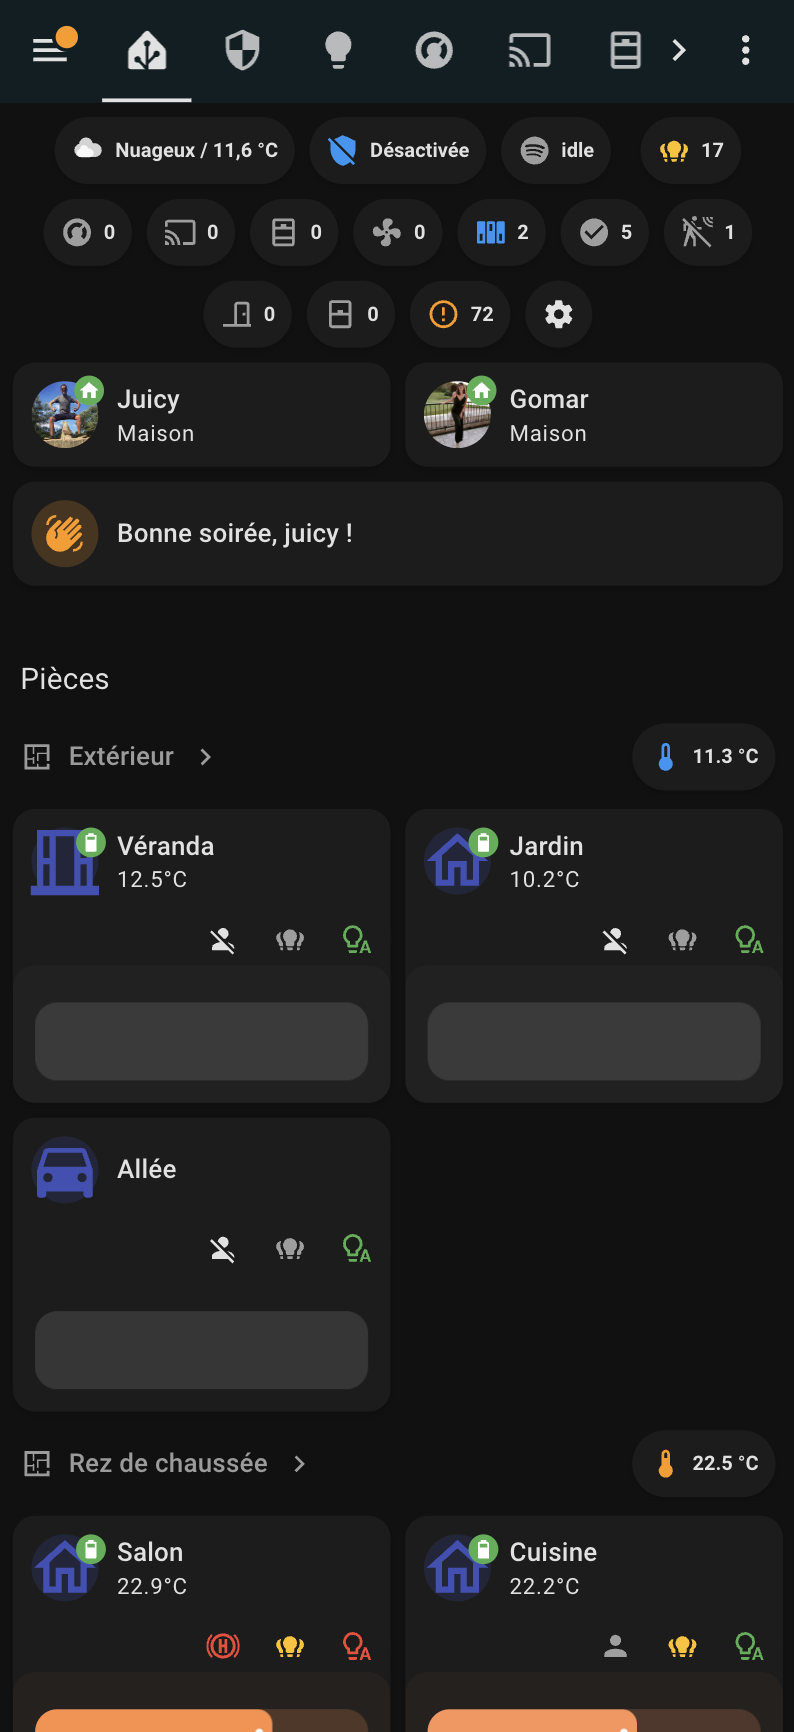
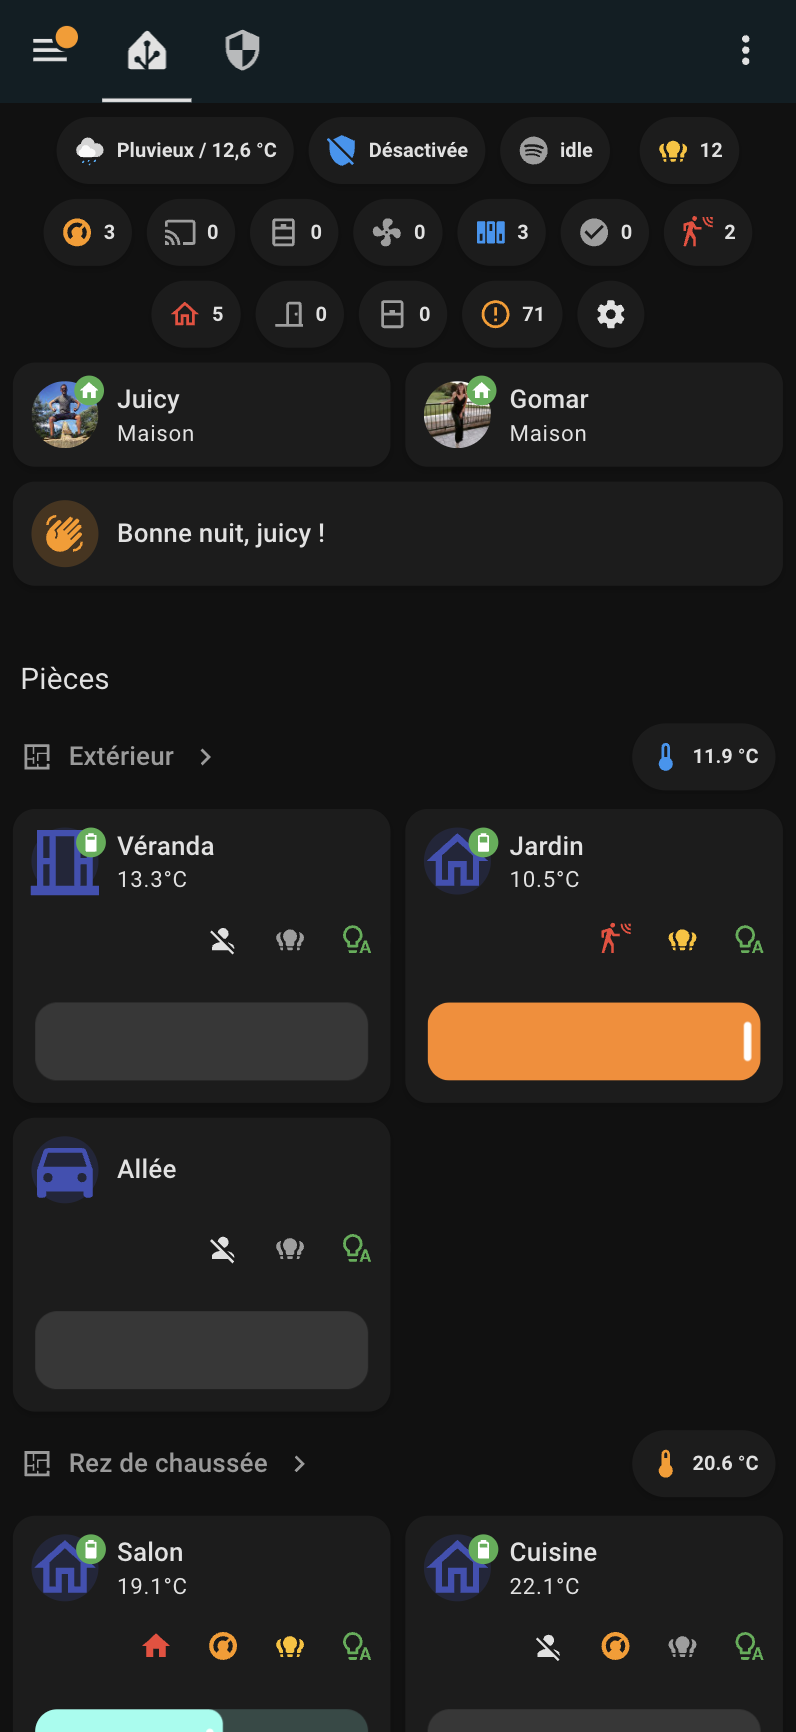
Update screenshots

diff --git a/README.md b/README.md
@@ -100,7 +100,7 @@ Organized views of all your devices by room for quick and intuitive control.
 ### 📟 **Device-Focused Views**
 Easily navigate between lights, sensors, and other device categories.
 <div align="center">
-  <img src="https://github.com/Thank-you-Linus/Linus-Dashboard/blob/main/images/screenshots/lights-page-example.png" alt="Lights Overview" width="50%">
+  <img src="https://github.com/Thank-you-Linus/Linus-Dashboard/blob/main/images/screenshots/motion-page-example.png" alt="Motion Overview" width="50%">
 </div>
 
 ### 🔒 **Security Page**

diff --git a/README-fr.md b/README-fr.md
@@ -99,7 +99,7 @@ Vues organisées de tous vos appareils par pièce pour un contrôle rapide et in
 Naviguez facilement entre les lumières, capteurs, et autres catégories d'appareils.
 
 <div align="center">
-  <img src="https://github.com/Thank-you-Linus/Linus-Dashboard/blob/main/images/screenshots/lights-page-example.png" alt="Vue des lumières" width="50%">
+  <img src="https://github.com/Thank-you-Linus/Linus-Dashboard/blob/main/images/screenshots/motion-page-example.png" alt="Vue des lumières" width="50%">
 </div>
 
 ### 🔒 **Page Sécurité**
